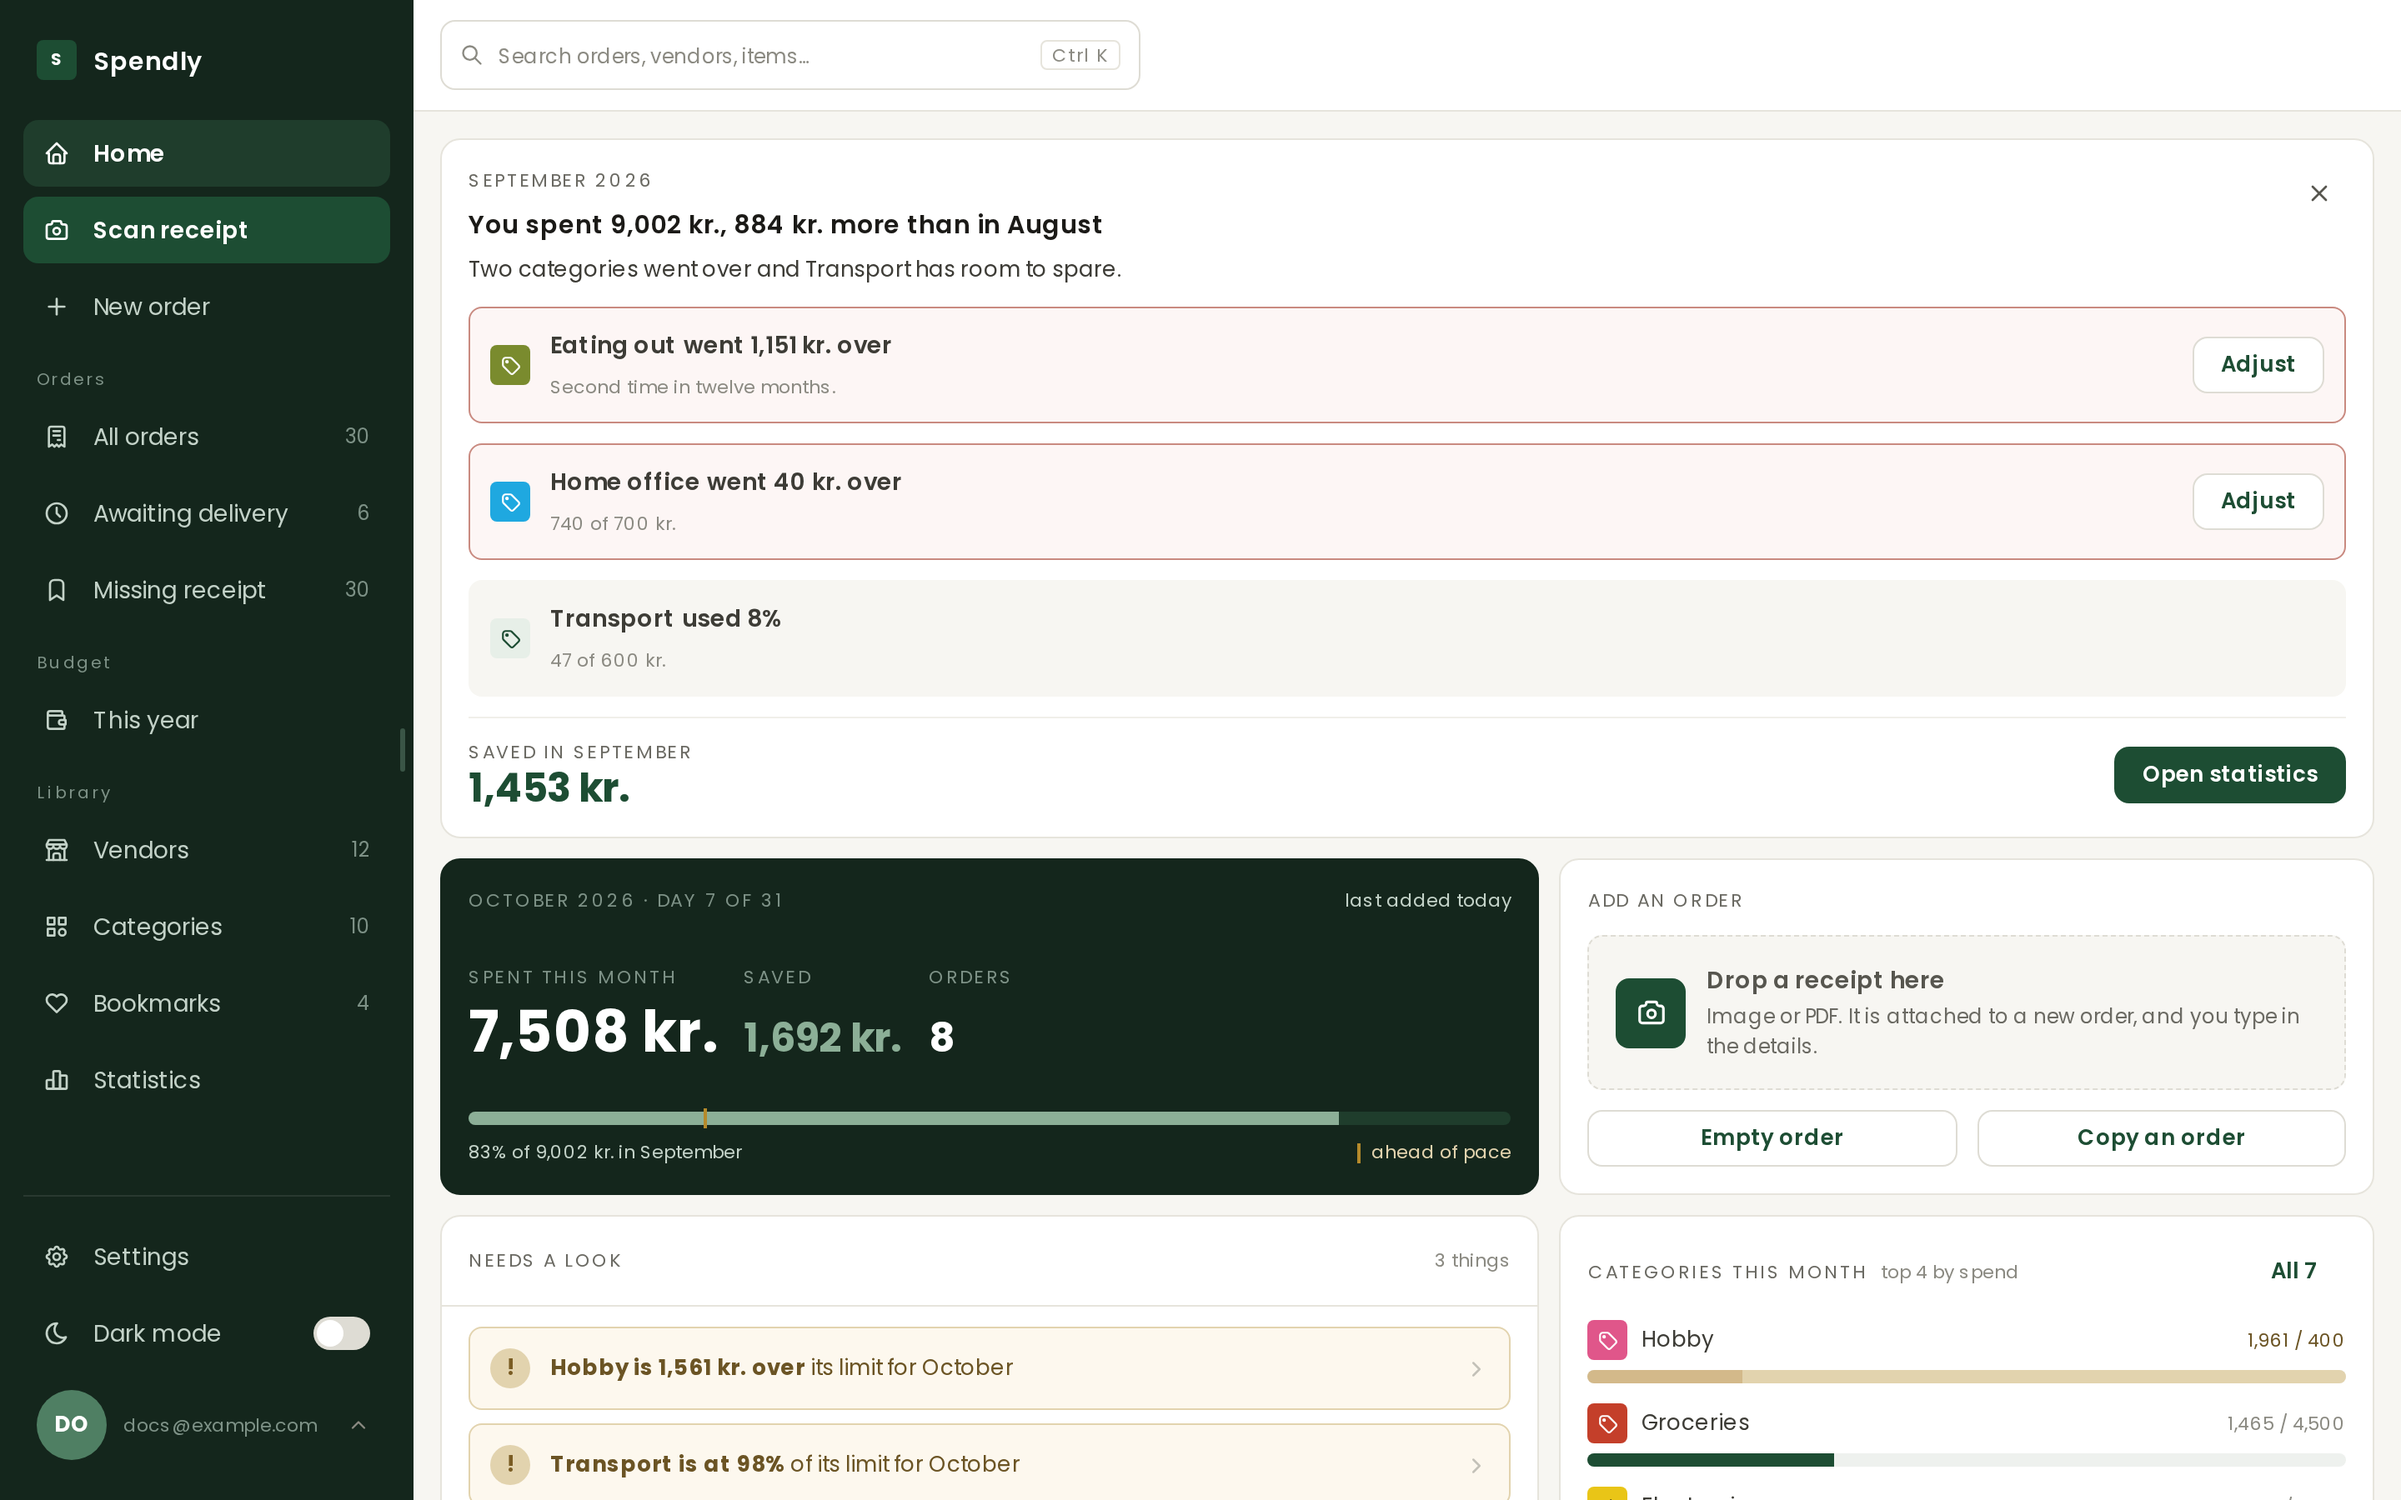
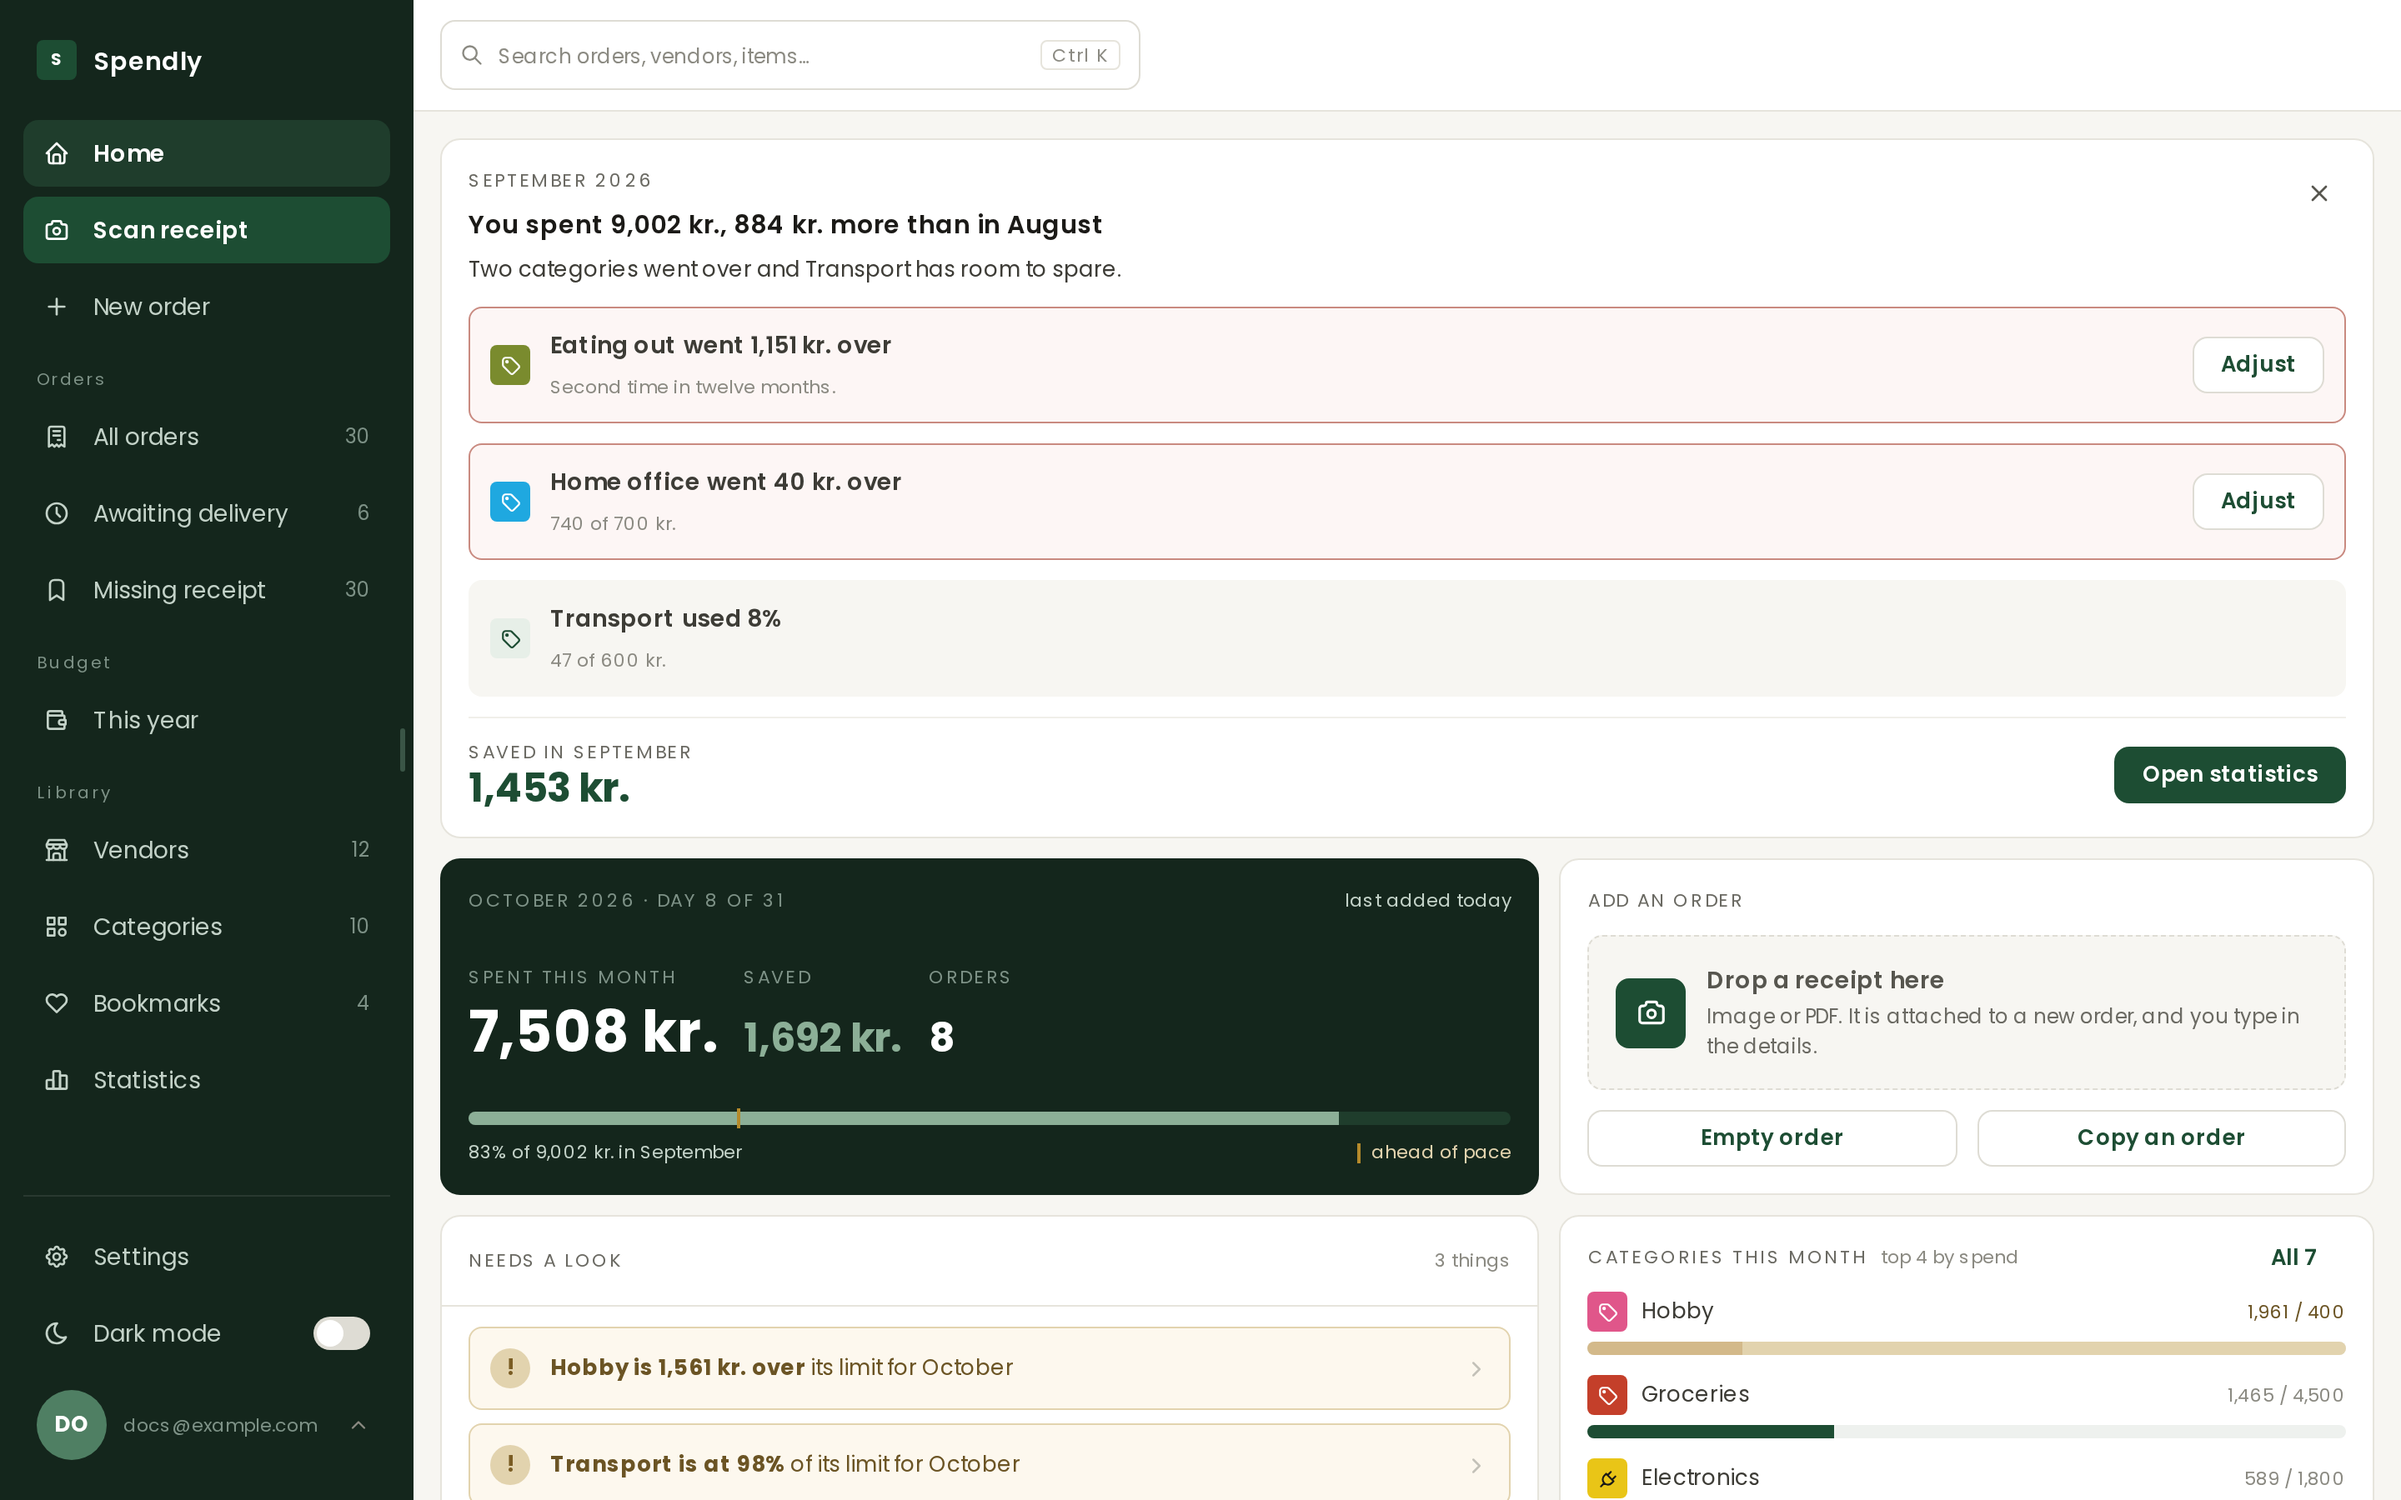
Copy in the design's named small-button height and its card head link rule for desktop
A text link beside a card's name takes no height in its row on desktop too, so Categories this
month and Last 8 months on Home have their name where every card has it. The desktop Home
screenshot is rendered again for it.

Changed region(s): [[0.6562, 0.84, 1.0, 1.0]]

diff --git a/react/src/styles/components.css b/react/src/styles/components.css
@@ -1684,7 +1684,7 @@ label.sp-option--swatch[aria-pressed="true"]:has(:focus-visible) {
    otherwise two commits and their label cannot share 375px. */
 .sp-touch .sp-btn:not(.sp-btn--small, .sp-btn--xsmall) { width: 100%; }
 /* xsmall is a desktop size: on touch it is the small button, height and width */
-.sp-touch .sp-btn--xsmall { width: auto; height: 34px; padding: 0 var(--sp-16); font-weight: 600; }
+.sp-touch .sp-btn--xsmall { width: auto; height: var(--btn-h-small); padding: 0 var(--sp-16); font-weight: 600; }
 /* inside a phone the bar is --phone-bar-h exactly, so a 48px control sits in it
    without the card padding pushing the bar past the height every other bar holds */
 .sp-phone .sp-savebar { height: var(--phone-bar-h); padding-top: 0; padding-bottom: 0; }
@@ -1696,16 +1696,20 @@ label.sp-option--swatch[aria-pressed="true"]:has(:focus-visible) {
 .sp-touch .sp-controls .sp-btn:not(.sp-btn--block),
 .sp-touch .sp-topbar .sp-btn:not(.sp-btn--block) { width: auto; }
 /* A text link in a card's head ("All 5" on Drafts, "All 248" on Recent orders) keeps the
-   small button's 34px box on touch and takes the touch height as a hit area above and
+   small button's box (--btn-h-small) on touch and takes the touch height as a hit area above and
    below. Its box is drawn but takes no height in the row: a negative margin of half the
    box on each side brings its outer height to zero, so the row is as tall as the name
    and the name sits the same distance from the card's top edge on every card (Brief 32,
    33). The link stays on the name's baseline; the box reaches 8.5 into the card's
    padding above and the gap below, which both exceed it. */
 .sp-touch .sp-list__toolbar > .sp-btn--text,
-.sp-touch .sp-card > .sp-row-flex:first-child > .sp-btn--text { min-height: 0; position: relative; margin-block: calc(34px / -2); }
+.sp-touch .sp-card > .sp-row-flex:first-child > .sp-btn--text { min-height: 0; position: relative; margin-block: calc(var(--btn-h-small) / -2); }
 .sp-touch .sp-list__toolbar > .sp-btn--text::before,
-.sp-touch .sp-card > .sp-row-flex:first-child > .sp-btn--text::before { content: ""; position: absolute; inset: calc((var(--control-h-touch) - 34px) / -2) 0; }
+.sp-touch .sp-card > .sp-row-flex:first-child > .sp-btn--text::before { content: ""; position: absolute; inset: calc((var(--control-h-touch) - var(--btn-h-small)) / -2) 0; }
+/* On desktop the head link is the small button at its own height, and its box takes no
+   height in the row either, so the name sits 17 below the card's top edge with or without
+   it (Brief 34). The box reaches 8.5 into the padding above and the gap below. */
+.sp-card > .sp-row-flex:first-child > .sp-btn--text { margin-block: calc(var(--btn-h-small) / -2); }
 /* two commits sharing a row each take half of it */
 .sp-dialog__actions > .sp-btn--block { flex: 1; min-width: 0; }
 .sp-touch .sp-switch { width: 44px; height: 26px; }
@@ -1722,9 +1726,9 @@ label.sp-option--swatch[aria-pressed="true"]:has(:focus-visible) {
   .sp-btn:not(.sp-btn--small, .sp-btn--xsmall) { width: 100%; }
   /* the head link rule above, for the shell's own query */
   .sp-list__toolbar > .sp-btn--text,
-  .sp-card > .sp-row-flex:first-child > .sp-btn--text { min-height: 0; position: relative; margin-block: calc(34px / -2); }
+  .sp-card > .sp-row-flex:first-child > .sp-btn--text { min-height: 0; position: relative; margin-block: calc(var(--btn-h-small) / -2); }
   .sp-list__toolbar > .sp-btn--text::before,
-  .sp-card > .sp-row-flex:first-child > .sp-btn--text::before { content: ""; position: absolute; inset: calc((var(--control-h-touch) - 34px) / -2) 0; }
+  .sp-card > .sp-row-flex:first-child > .sp-btn--text::before { content: ""; position: absolute; inset: calc((var(--control-h-touch) - var(--btn-h-small)) / -2) 0; }
 }
 
 /* a measurement arrives as a data attribute with its own rule below, so no
@@ -3206,7 +3210,7 @@ button.sp-bars__col:hover .sp-bars__bar { background: var(--green-2); }
 .sp-popover__actions .sp-btn,
 .sp-list-item--sticky .sp-btn,
 .sp-savebar .sp-btn {
-  height: 34px;
+  height: var(--btn-h-small);
   padding: 0 var(--sp-16);
 }
 
@@ -5039,7 +5043,7 @@ button.sp-list-item--card:active { background: var(--surface-2); }
   align-items: center;
   gap: var(--sp-8);
   width: 100%;
-  height: 34px;
+  height: var(--btn-h-small);
   padding: 0 var(--sp-12);
   border: 1px dashed var(--line-4);
   border-radius: var(--r-tile);

diff --git a/react/src/styles/tokens.css b/react/src/styles/tokens.css
@@ -105,6 +105,7 @@
   --t-16: 16px;            /* field and stepper on touch - below this iOS zooms */
   --t-20: 20px;            /* section headings, empty-state titles, 42px mark */
   --t-24: 24px;            /* the figure a card is about */
+  --t-64: 64px;            /* the month a letter is about (23a), and nothing else */
   --t-34: 34px;            /* the one figure a page is about */
   --ls-label: 0.1em;       /* table headers */
   --ls-eyebrow: 0.12em;    /* card section labels */
@@ -113,6 +114,7 @@
   /* ---- control sizes ---- */
   --control-h: 42px;       /* every field and button on desktop */
   --control-h-touch: 48px; /* the same on mobile */
+  --btn-h-small: 34px;     /* the small button (c6), and xsmall on touch; a card's head link and the add row take it */
   --row-h: 32px;           /* an option in a pickable list on desktop (c5): scanned and picked, not typed in */
   --row-h-touch: 44px;     /* the same on mobile, a finger's minimum; rows touch, each is still its own target */
   /* The inset a phone screen's content keeps from the glass. The frame states it here
